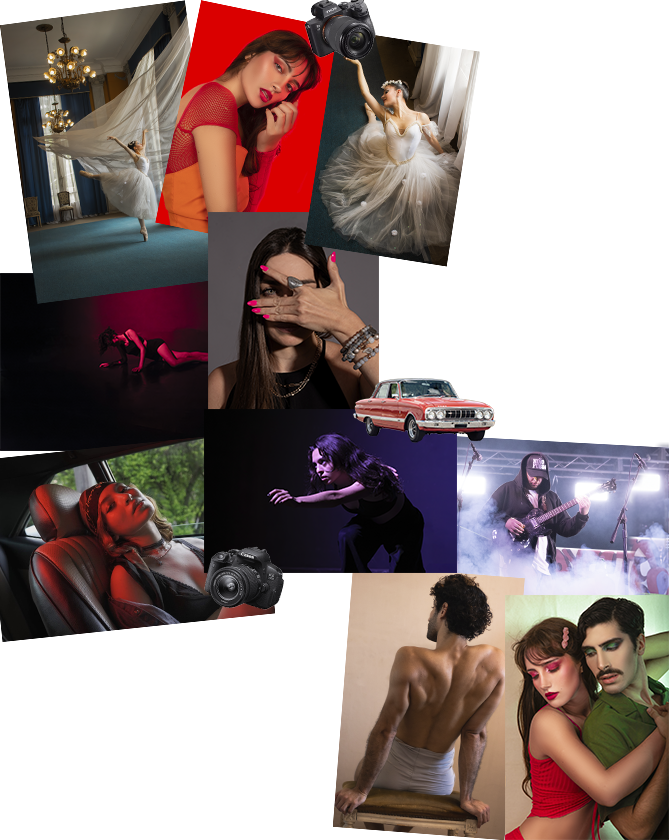
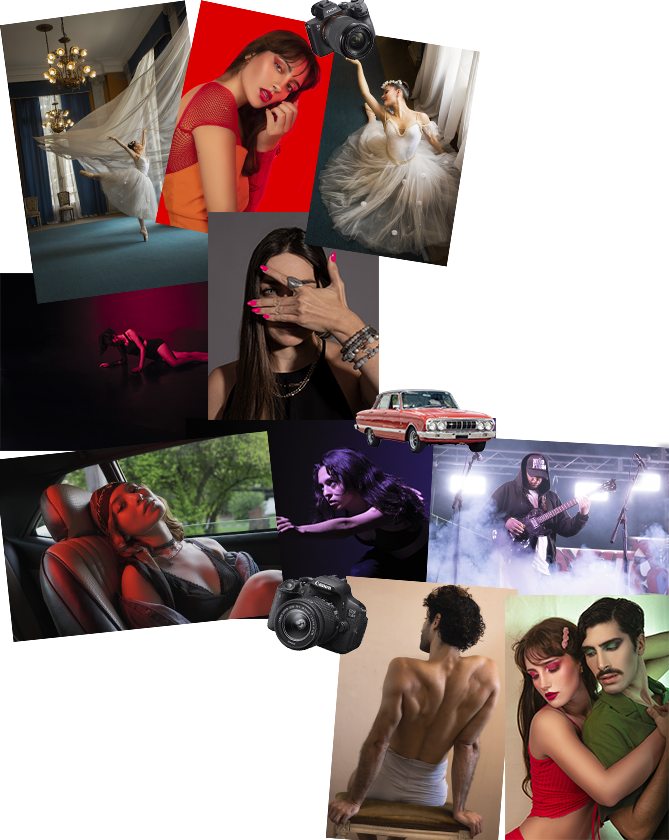
feat: :zap: se refactorizo para optimizar las imagenes....

Changed region(s): [[0.0, 0.4333, 0.8072, 1.0]]

diff --git a/components/header.tsx b/components/header.tsx
@@ -11,43 +11,51 @@ export function Header() {
   const [scrolled, setScrolled] = useState(false)
 
   useEffect(() => {
+    let ticking = false
+
     const handleScroll = () => {
-      setScrolled(window.scrollY > 5)
+      if (!ticking) {
+        window.requestAnimationFrame(() => {
+          setScrolled(window.scrollY > 5)
+          ticking = false
+        })
+        ticking = true
+      }
     }
+
     window.addEventListener("scroll", handleScroll)
     return () => window.removeEventListener("scroll", handleScroll)
   }, [])
 
-  
+
   const redes = [
-    { 
+    {
       icon: <Instagram />,
-      nombre:"@rec.lab", 
-      href:"https://www.instagram.com/rec.lab/"
+      nombre: "@rec.lab",
+      href: "https://www.instagram.com/rec.lab/"
     },
-    { 
-      icon:<Facebook />,
-      nombre:"@rec.lab", 
-      href:"https://www.facebook.com/rec.lab/"
+    {
+      icon: <Facebook />,
+      nombre: "@rec.lab",
+      href: "https://www.facebook.com/rec.lab/"
     },
-    { 
+    {
       icon: <Youtube />,
-      nombre:"@rec.lab", 
-      href:"https://www.instagram.com/rec.lab/"
-    }, 
+      nombre: "@rec.lab",
+      href: "https://www.instagram.com/rec.lab/"
+    },
   ]
   return (
-    <header 
-      className={`fixed top-0 left-0 right-0 z-50 transition-all duration-500 ${
-        scrolled 
-          ? "bg-transparent/30 backdrop-blur-2xl text-foreground"  
+    <header
+      className={`fixed top-0 left-0 right-0 z-50 transition-all duration-500 ${scrolled
+          ? "bg-transparent/30 backdrop-blur-2xl text-foreground"
           : "bg-transparent text-secondary"
-      }`}
+        }`}
     >
       <nav className="container mx-auto px-4 sm:px-6 lg:px-8">
         <div className="flex items-center justify-between h-20 lg:px-40">
-          <Link 
-            href="/" 
+          <Link
+            href="/"
             className="relative group flex justify-start items-center gap-3"
           >
             <Image
@@ -57,7 +65,7 @@ export function Header() {
               height={50}
               className="ms-5 object-contain"
             />
-{/*             <span className="text-3xl font-medium tracking-[0.2em] uppercase">
+            {/*             <span className="text-3xl font-medium tracking-[0.2em] uppercase">
               RecLab
             </span> */}
             {/* <div className="absolute -bottom-1 left-0 w-0 h-px bg-primary transition-all duration-300 group-hover:w-full" /> */}
@@ -82,10 +90,10 @@ export function Header() {
           </div>
 
           {/* Mobile Menu Button */}
-          <Button 
-            variant="ghost" 
-            size="icon" 
-            className="md:hidden relative overflow-hidden group h-10 w-10" 
+          <Button
+            variant="ghost"
+            size="icon"
+            className="md:hidden relative overflow-hidden group h-10 w-10"
             onClick={() => setMobileMenuOpen(!mobileMenuOpen)}
           >
             {mobileMenuOpen ? <X className="relative z-10 text-xl text-black hover:bg-none" /> : <Globe className="text-black relative z-10 h-10 w-10" />}
@@ -102,8 +110,8 @@ export function Header() {
                 target="_blank"
                 rel="noopener noreferrer"
                 className="px-3 flex text-lg gap-2 tracking-wider uppercase text-muted-foreground hover:text-foreground transition-all duration-300"
-                style={{ 
-                  animation: `slideIn 0.3s ease-out ${i * 0.1}s both` 
+                style={{
+                  animation: `slideIn 0.3s ease-out ${i * 0.1}s both`
                 }}
                 onClick={() => setMobileMenuOpen(false)}
               >

diff --git a/components/site/hero-collage.tsx b/components/site/hero-collage.tsx
@@ -1,6 +1,7 @@
 "use client"
 
 import { motion } from "framer-motion"
+import Image from "next/image"
 import { Pacifico } from "next/font/google";
 import { CurvedArrow } from "@/components/site/arrow";
 
@@ -34,16 +35,26 @@ export function HeroCollage() {
                         }}
                         className="relative z-10"
                     >
-                        <img
-                            src="/assets/hero/collage-vertical.png"
-                            alt="Hero background"
-                            className="md:hidden object-cover max-h-screen md:px-0"
-                        />
-                        <img
-                            src="/assets/hero/collage-horizontal.png"
-                            alt="Hero background"
-                            className="hidden md:block object-cover"
-                        />
+                        <div className="md:hidden relative w-full h-full max-h-screen">
+                            <Image
+                                src="/assets/hero/collage-vertical.png"
+                                alt="Hero background"
+                                width={1000}
+                                height={1500}
+                                className="object-cover w-full h-auto"
+                                priority
+                            />
+                        </div>
+                        <div className="hidden md:block relative w-full h-full">
+                            <Image
+                                src="/assets/hero/collage-horizontal.png"
+                                alt="Hero background"
+                                width={1920}
+                                height={1080}
+                                className="object-cover w-full h-auto"
+                                priority
+                            />
+                        </div>
                     </motion.div>
 
                     {/* VIDEO 1 */}

diff --git a/components/hero-section.tsx b/components/hero-section.tsx
@@ -2,13 +2,22 @@
 
 import { Button } from "@/components/ui/button"
 import Link from "next/link"
+import Image from "next/image"
 import { HeroCollage } from "./site/hero-collage"
 
 export function HeroSection() {
   return (
     <section className="h-screen w-screen fixed flex flex-col justify-center overflow-hidden mt-0 bg-amber-100 text-black">
 
-       <div className="absolute inset-0 opacity-30 bg-[url('/assets/hero/noise.png')] bg-cover bg-center"/>
+      <div className="absolute inset-0 opacity-30">
+        <Image
+          src="/assets/hero/noise.png"
+          alt="noise texture"
+          fill
+          className="object-cover pointer-events-none select-none"
+          priority
+        />
+      </div>
 
       {/* Content */}
       <div className="relative z-10 container mx-auto">
